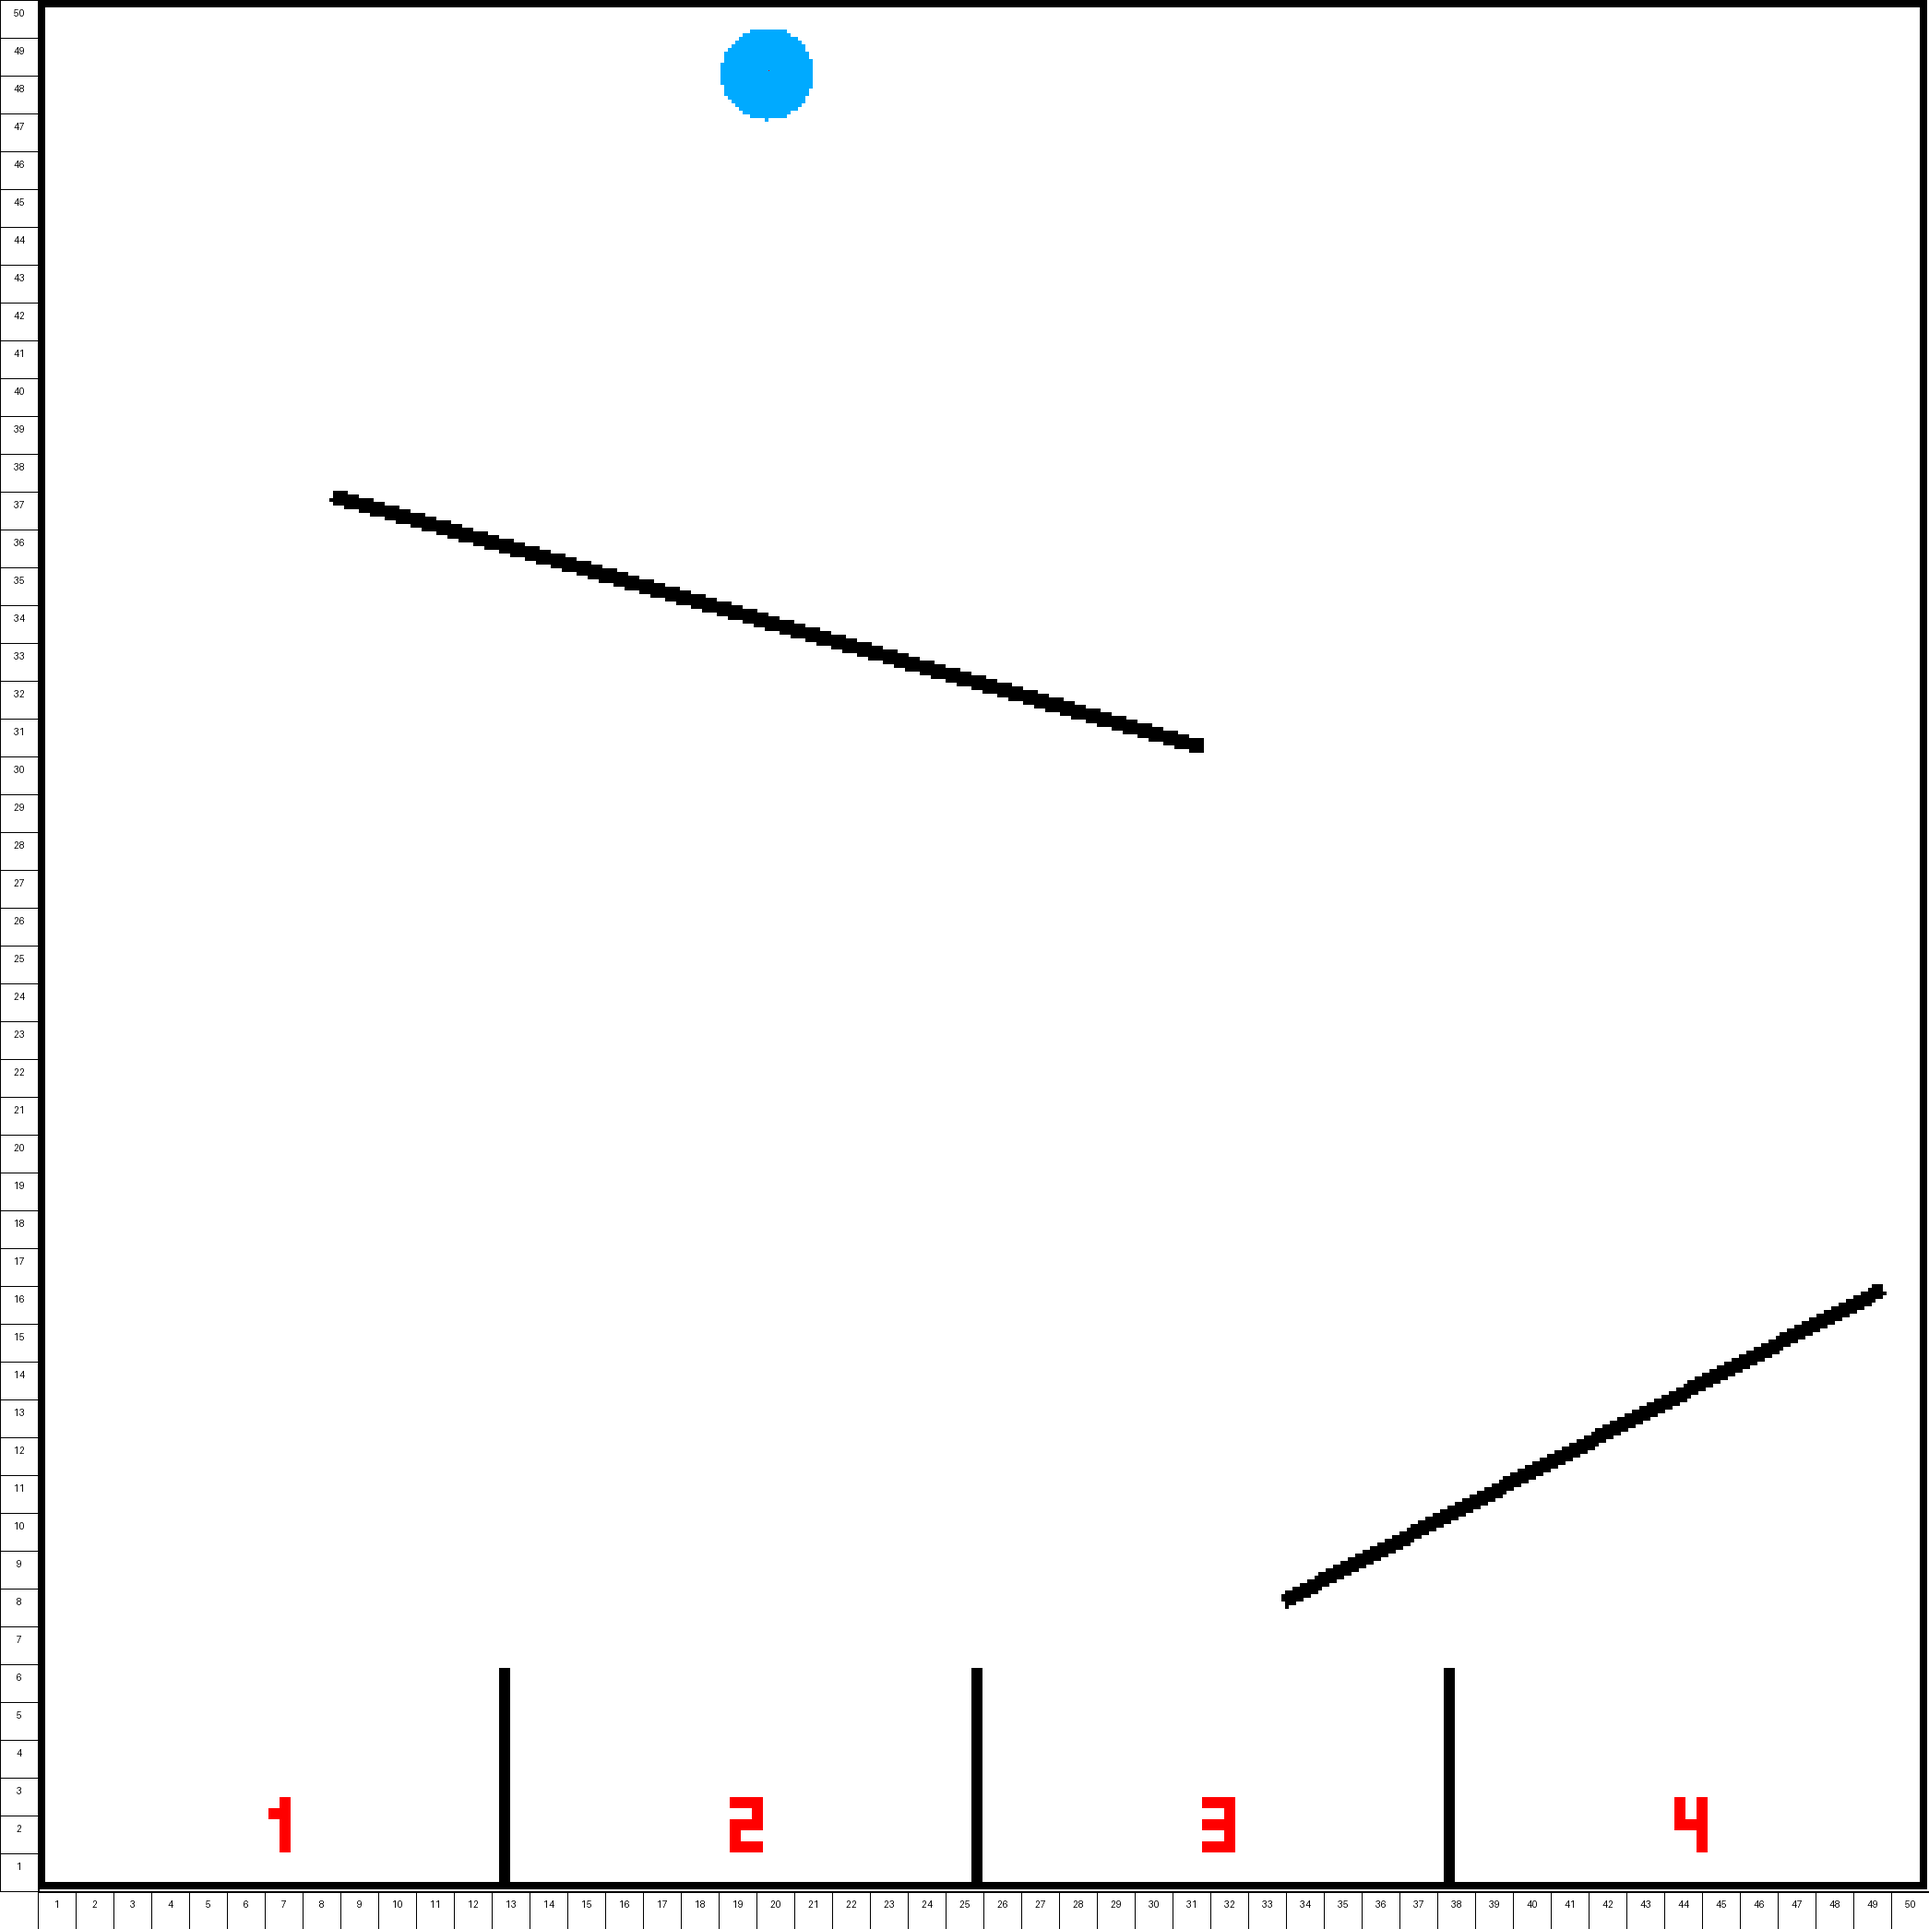
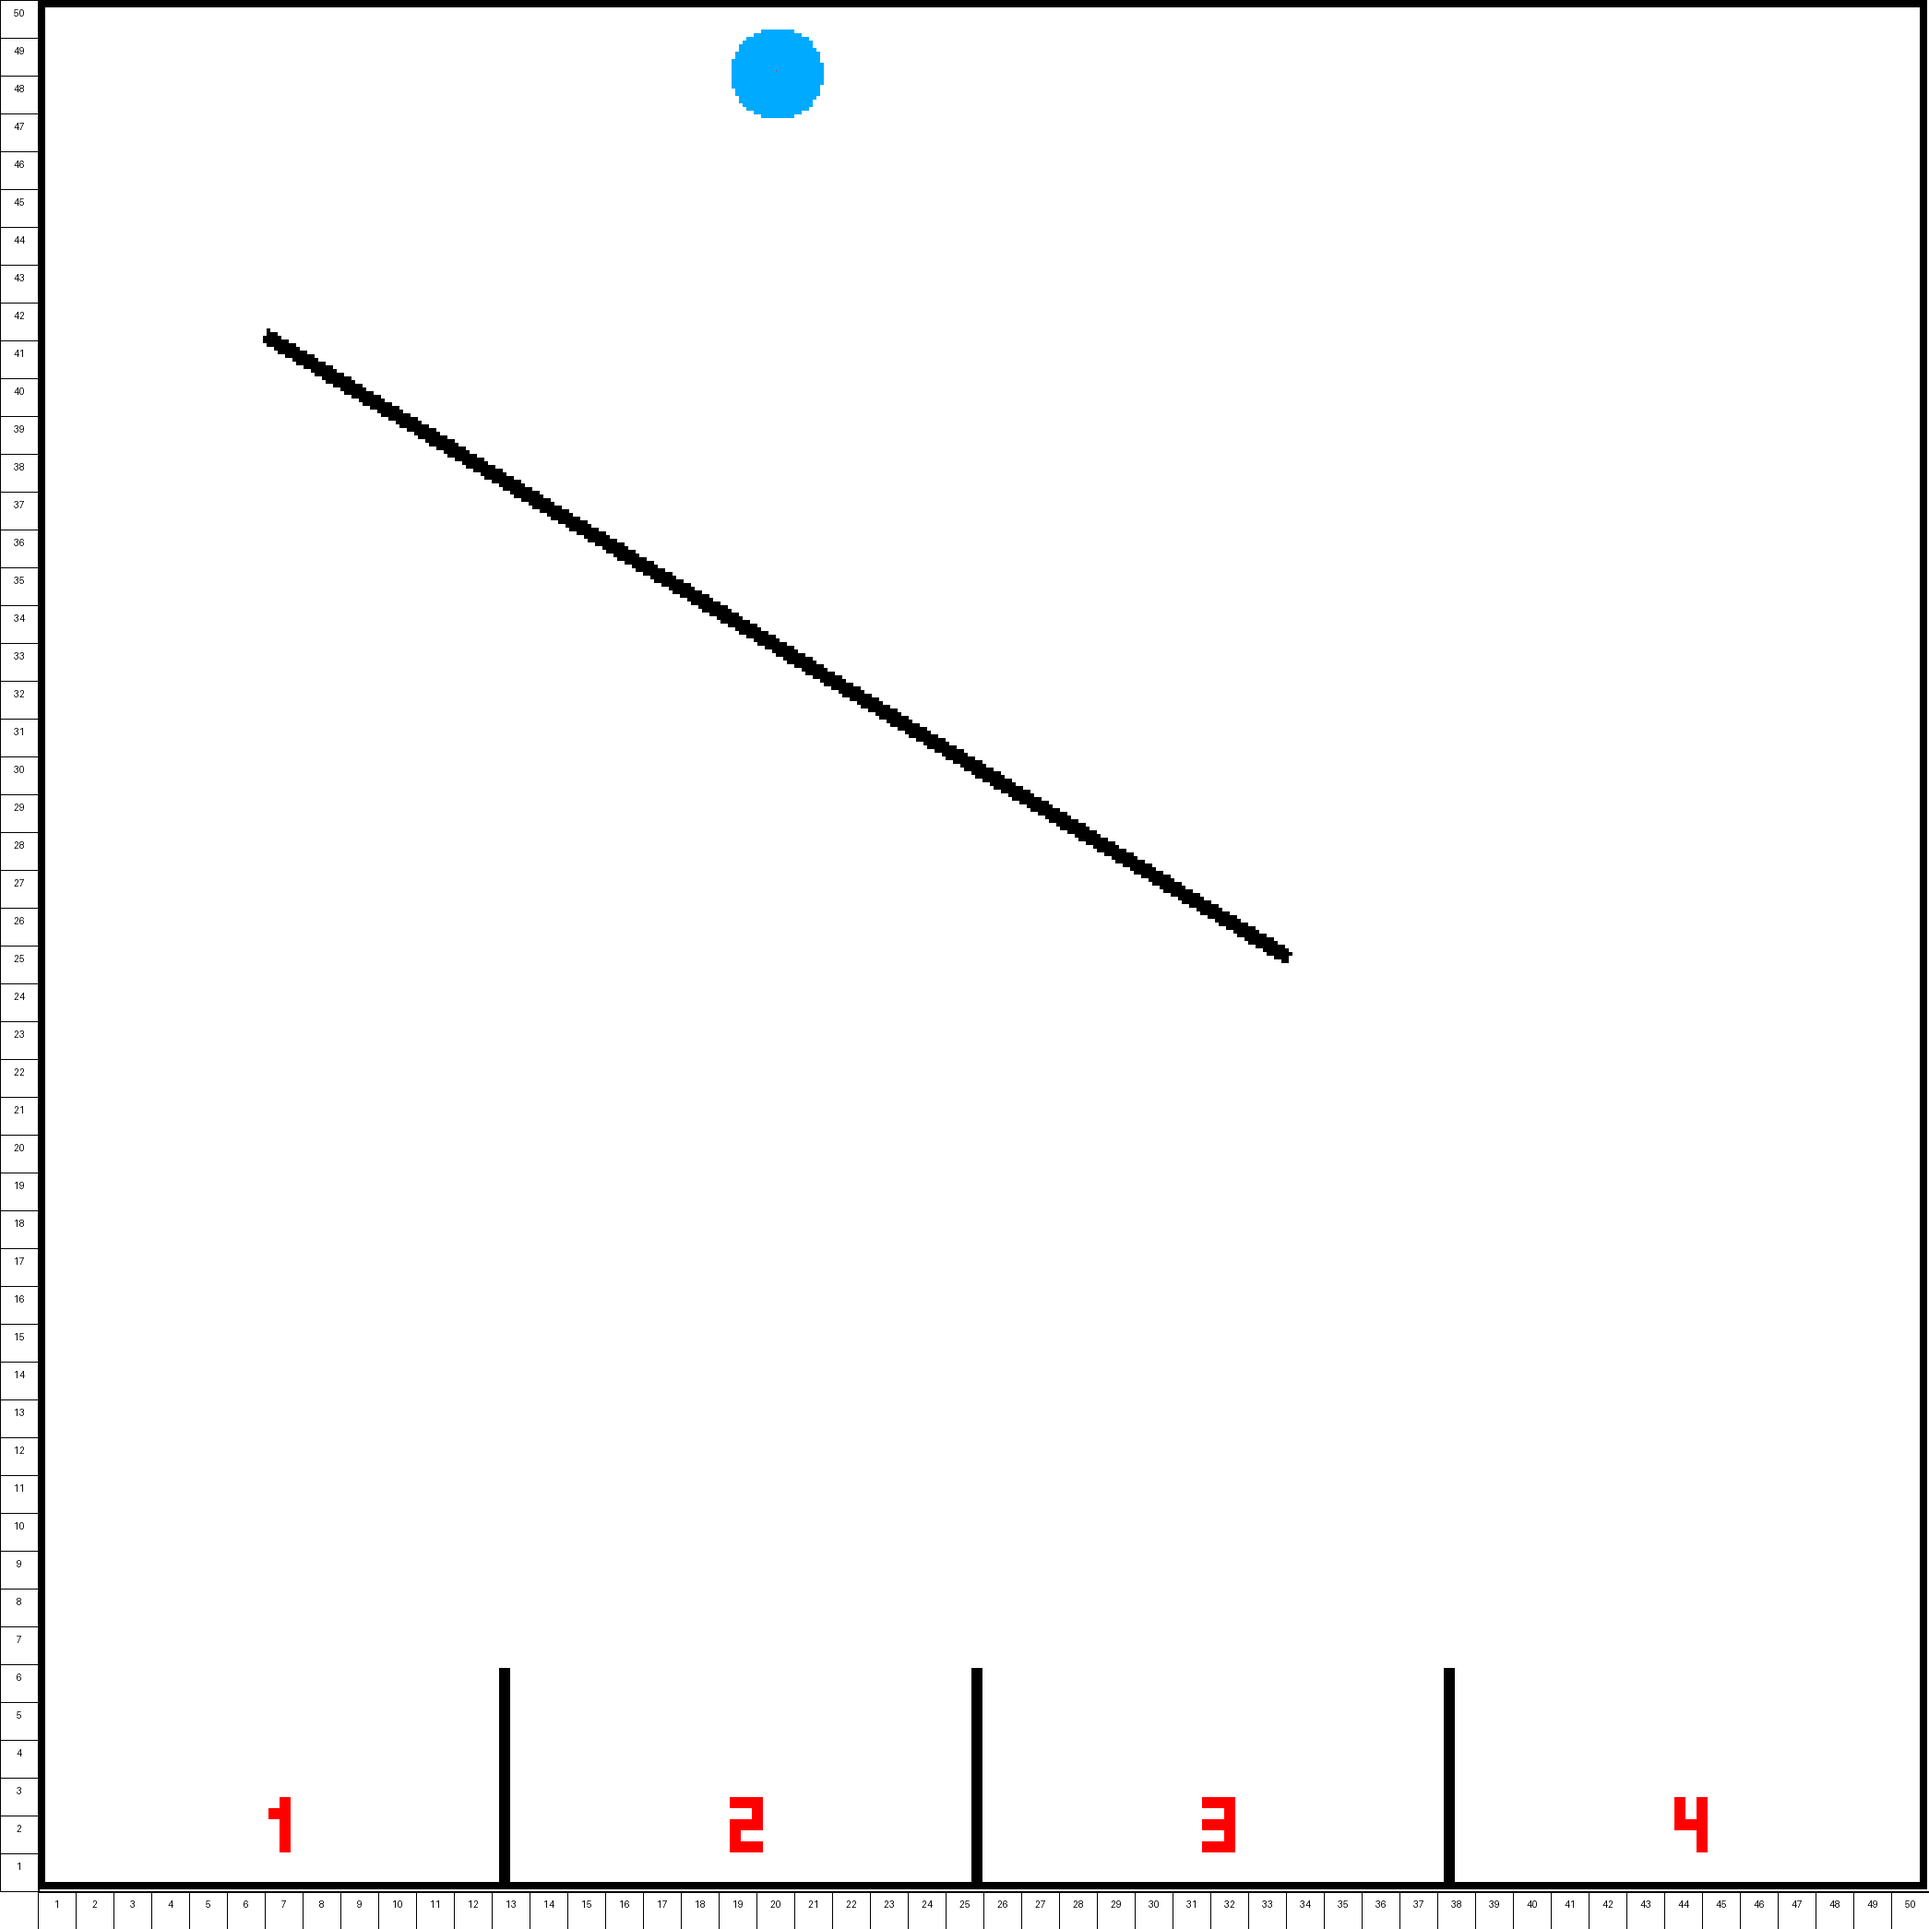
GT and sktech on same analysis image

diff --git a/analysis/line_visualizations/compare_lines.py b/analysis/line_visualizations/compare_lines.py
@@ -1,0 +1,251 @@
+import numpy as np
+from svgpathtools import parse_path
+import xml.etree.ElementTree as ET
+import json
+import matplotlib
+matplotlib.use('Agg')  # Use non-interactive backend
+import matplotlib.pyplot as plt
+def extract_points_from_svg(svg_path, n_points=500):
+    """
+    Extract n_points uniformly sampled along the entire SVG path.
+    
+    Parameters:
+    -----------
+    svg_path : str
+        Path to the SVG file
+    n_points : int
+        Total number of points to sample uniformly along entire trajectory
+    
+    Returns:
+    --------
+    np.ndarray
+        Array of shape (n_points, 2) containing [x, y] coordinates
+    """
+    import xml.etree.ElementTree as ET
+    from svgpathtools import parse_path, Path
+    import numpy as np
+    
+    # Parse the SVG file
+    tree = ET.parse(svg_path)
+    root = tree.getroot()
+    
+    # Handle XML namespaces
+    namespaces = {'svg': 'http://www.w3.org/2000/svg'}
+    paths = root.findall('.//path') + root.findall('.//svg:path', namespaces)
+    
+    if not paths:
+        raise ValueError("No path elements found in SVG")
+    
+    # Parse and concatenate all paths into one continuous path
+    all_segments = []
+    for path_elem in paths:
+        d = path_elem.get('d')
+        if d:
+            path = parse_path(d)
+            all_segments.extend(path)  # Add all segments from this path
+    
+    if not all_segments:
+        raise ValueError("No valid path data found")
+    
+    # Create one continuous path from all segments
+    continuous_path = Path(*all_segments)
+    
+    # Get total length
+    total_length = continuous_path.length()
+    
+    # Sample uniformly by arc length
+    points = []
+    for i in range(n_points):
+        # Distance along the path
+        distance = (i / (n_points - 1)) * total_length if n_points > 1 else 0
+        
+        # Convert distance to parameter t
+        t = continuous_path.ilength(distance)
+        
+        # Get point at parameter t
+        pt = continuous_path.point(t)
+        points.append([pt.real, pt.imag])
+    
+    return np.array(points)
+
+def extract_points_from_gt_json(json_path, n_points=100, ball_body_index="10"):
+    """
+    Extract n_points uniformly sampled from ground truth trajectory JSON.
+
+    Transforms coordinates from physics coordinate system (origin bottom-left, Y up)
+    to SVG coordinate system (origin top-left, Y down).
+
+    Parameters:
+    -----------
+    json_path : str
+        Path to the JSON file containing trajectories
+    n_points : int
+        Number of points to sample uniformly from the trajectory
+    ball_body_index : str
+        The key in the trajectories dict for the ball (default "10")
+
+    Returns:
+    --------
+    np.ndarray
+        Array of shape (n_points, 2) containing [x, y] coordinates in SVG space
+    """
+    # Load the JSON data
+    with open(json_path, 'r') as f:
+        data = json.load(f)
+
+    # Get scene height for coordinate transformation
+    scene_height = data['scene']['height']
+
+    # Extract the trajectory points for the ball
+    trajectory = data['trajectories'][ball_body_index]
+
+    # Convert to numpy array and transform Y coordinates to SVG space
+    # Physics: origin at bottom-left, Y increases upward
+    # SVG: origin at top-left, Y increases downward
+    # Transformation: svg_y = scene_height - physics_y
+    all_points = np.array([[pt['x'], scene_height - pt['y']] for pt in trajectory])
+
+    # Total number of points in ground truth
+    total_points = len(all_points)
+
+    # Uniformly sample n_points
+    if n_points >= total_points:
+        # If requesting more points than available, return all points
+        return all_points
+
+    # Calculate indices for uniform sampling
+    indices = np.linspace(0, total_points - 1, n_points, dtype=int)
+    sampled_points = all_points[indices]
+
+    return sampled_points
+
+def visualize_trajectory(points, title="Sampled Trajectory", save_path=None):
+    """Visualize the sampled trajectory points"""
+    import matplotlib.pyplot as plt
+    
+    # fig, (ax1, ax2) = plt.subplots(1, 2, figsize=(16, 8))
+    fig, ax1 = plt.subplots(figsize=(16, 8))
+    
+    # Plot 1: Full trajectory with all points
+    ax1.plot(points[:, 0], points[:, 1], 'g-', linewidth=2, alpha=0.7, label='Trajectory')
+    ax1.scatter(points[0, 0], points[0, 1], c='blue', s=200, zorder=5, 
+                marker='o', edgecolors='black', linewidths=2, label='Start')
+    ax1.scatter(points[-1, 0], points[-1, 1], c='red', s=200, zorder=5, 
+                marker='s', edgecolors='black', linewidths=2, label='End')
+    ax1.scatter(points[::1, 0], points[::1, 1], c='orange', s=50, zorder=4, 
+                alpha=0.6, label='Sample points')
+    ax1.invert_yaxis()  # SVG Y-axis points down
+    ax1.axis('equal')
+    ax1.set_title(f'{title}\n({len(points)} points total)', fontsize=14, fontweight='bold')
+    ax1.set_xlabel('X', fontsize=12)
+    ax1.set_ylabel('Y', fontsize=12)
+    ax1.legend(loc='best', fontsize=10)
+    ax1.grid(True, alpha=0.3)
+    
+    
+    plt.tight_layout()
+    
+    # if save_path:
+    #     plt.savefig(save_path, dpi=150, bbox_inches='tight')
+    #     print(f"Saved visualization to {save_path}")
+    
+    plt.show()
+
+def visualize_comparison(svg_points, gt_points, title="SVG vs Ground Truth Comparison", save_path=None):
+    """
+    Visualize both SVG trajectory and ground truth trajectory for comparison
+
+    Parameters:
+    -----------
+    svg_points : np.ndarray
+        Points sampled from SVG path
+    gt_points : np.ndarray
+        Points sampled from ground truth trajectory
+    title : str
+        Title for the plot
+    save_path : str
+        Optional path to save the figure
+    """
+    import matplotlib.pyplot as plt
+
+    fig, ax = plt.subplots(figsize=(16, 10))
+
+    # Plot ground truth trajectory
+    ax.plot(gt_points[:, 0], gt_points[:, 1], 'b-', linewidth=2, alpha=0.5, label='GT Trajectory')
+    ax.scatter(gt_points[:, 0], gt_points[:, 1], c='blue', s=50, zorder=4,
+                alpha=0.6, label=f'GT points (n={len(gt_points)})')
+    ax.scatter(gt_points[0, 0], gt_points[0, 1], c='blue', s=200, zorder=5,
+                marker='o', edgecolors='black', linewidths=2, label='GT Start')
+    ax.scatter(gt_points[-1, 0], gt_points[-1, 1], c='darkblue', s=200, zorder=5,
+                marker='s', edgecolors='black', linewidths=2, label='GT End')
+
+    # Plot SVG trajectory
+    ax.plot(svg_points[:, 0], svg_points[:, 1], 'g-', linewidth=2, alpha=0.5, label='SVG Trajectory')
+    ax.scatter(svg_points[:, 0], svg_points[:, 1], c='green', s=50, zorder=4,
+                alpha=0.6, label=f'SVG points (n={len(svg_points)})')
+    ax.scatter(svg_points[0, 0], svg_points[0, 1], c='green', s=200, zorder=5,
+                marker='o', edgecolors='black', linewidths=2, label='SVG Start')
+    ax.scatter(svg_points[-1, 0], svg_points[-1, 1], c='darkgreen', s=200, zorder=5,
+                marker='s', edgecolors='black', linewidths=2, label='SVG End')
+
+    # Invert Y-axis to match SVG coordinate system
+    ax.invert_yaxis()
+    ax.axis('equal')
+    ax.set_title(f'{title}', fontsize=14, fontweight='bold')
+    ax.set_xlabel('X', fontsize=12)
+    ax.set_ylabel('Y', fontsize=12)
+    ax.legend(loc='best', fontsize=10, ncol=2)
+    ax.grid(True, alpha=0.3)
+
+    plt.tight_layout()
+
+    if save_path:
+        plt.savefig(save_path, dpi=150, bbox_inches='tight')
+        print(f"Saved visualization to {save_path}")
+
+    plt.close()
+
+# Usage
+if __name__ == "__main__":
+    import numpy as np
+
+    svg_file = "/Users/log/Github/sketchvlm/results/mix_eval/ball_paths/gpt5/gpt5_low_ball_paths/item_00000.svg"
+    gt_json_file = "/Users/log/Github/sketchvlm/datasets/large_run_split/run_001_1/random_scene_metadata.json"
+
+    # Extract 100 points from SVG
+    svg_points = extract_points_from_svg(svg_file, n_points=100)
+    print(f"SVG: Extracted {len(svg_points)} points")
+    print(f"  First point: {svg_points[0]}")
+    print(f"  Last point: {svg_points[-1]}")
+
+    # Extract 100 points from ground truth JSON
+    gt_points = extract_points_from_gt_json(gt_json_file, n_points=100)
+    print(f"\nGround Truth: Extracted {len(gt_points)} points")
+    print(f"  First point: {gt_points[0]}")
+    print(f"  Last point: {gt_points[-1]}")
+
+    # Verify uniform spacing for SVG
+    svg_distances = np.linalg.norm(np.diff(svg_points, axis=0), axis=1)
+    print(f"\nSVG Spacing Statistics:")
+    print(f"  Average spacing: {np.mean(svg_distances):.2f} pixels")
+    print(f"  Std dev: {np.std(svg_distances):.2f} pixels")
+    print(f"  Min spacing: {np.min(svg_distances):.2f} pixels")
+    print(f"  Max spacing: {np.max(svg_distances):.2f} pixels")
+    print(f"  Coefficient of variation: {(np.std(svg_distances)/np.mean(svg_distances)*100):.1f}%")
+
+    # Verify uniform spacing for GT
+    gt_distances = np.linalg.norm(np.diff(gt_points, axis=0), axis=1)
+    print(f"\nGround Truth Spacing Statistics:")
+    print(f"  Average spacing: {np.mean(gt_distances):.2f} pixels")
+    print(f"  Std dev: {np.std(gt_distances):.2f} pixels")
+    print(f"  Min spacing: {np.min(gt_distances):.2f} pixels")
+    print(f"  Max spacing: {np.max(gt_distances):.2f} pixels")
+    print(f"  Coefficient of variation: {(np.std(gt_distances)/np.mean(gt_distances)*100):.1f}%")
+
+    # Visualize comparison
+    import os
+    script_dir = os.path.dirname(os.path.abspath(__file__))
+    save_path = os.path.join(script_dir, "trajectory_comparison.png")
+    visualize_comparison(svg_points, gt_points,
+                        title="SVG Model Output vs Ground Truth Trajectory (100 points each)",
+                        save_path=save_path)

diff --git a/gpt_baseline_ball_drop.py b/gpt_baseline_ball_drop.py
@@ -541,4 +541,13 @@ python gpt_baseline_ball_drop.py \
     --progress --verbose
 
 
+python gpt_baseline_ball_drop.py \
+    --images datasets/ball_number \
+    --use-openrouter \
+    --openrouter-provider alibaba \
+    --openai-model "qwen/qwen3-vl-235b-a22b-thinking" \
+    --out results/qwen235b_results.jsonl \
+    --csv results/qwen235b_results.csv \
+    --progress --verbose
+
   '''
